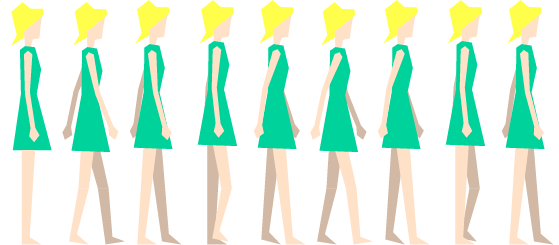
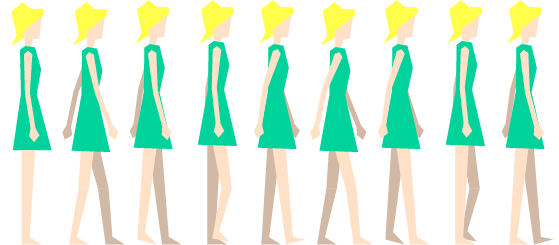
try to align anim on moving speed

diff --git a/js/player.js b/js/player.js
@@ -1,5 +1,5 @@
 function Player(img, path) {
-    this.speed = 2.5;
+    this.speed = 0.1;
 
     var ipath = 0;
 
@@ -8,7 +8,7 @@ function Player(img, path) {
         frames: {height: 245, width: 62, regX: 62/2},
         animations: {
             still: [0, 0],
-            walk: [1, 8, "walk", 0.2]
+            walk: [1, 8, "walk", 2.25*this.speed]
         }
     });
 
@@ -19,7 +19,7 @@ function Player(img, path) {
     eltsToUpdate.push(this);
 
     this.update = function (event) {
-        var deltaT = event.delta / 30; //usually approximately 1
+        var deltaT = event.delta;
 
         var destX = path[ipath];
         if (Math.abs(destX - this.sprite.x) > 0.01) {
